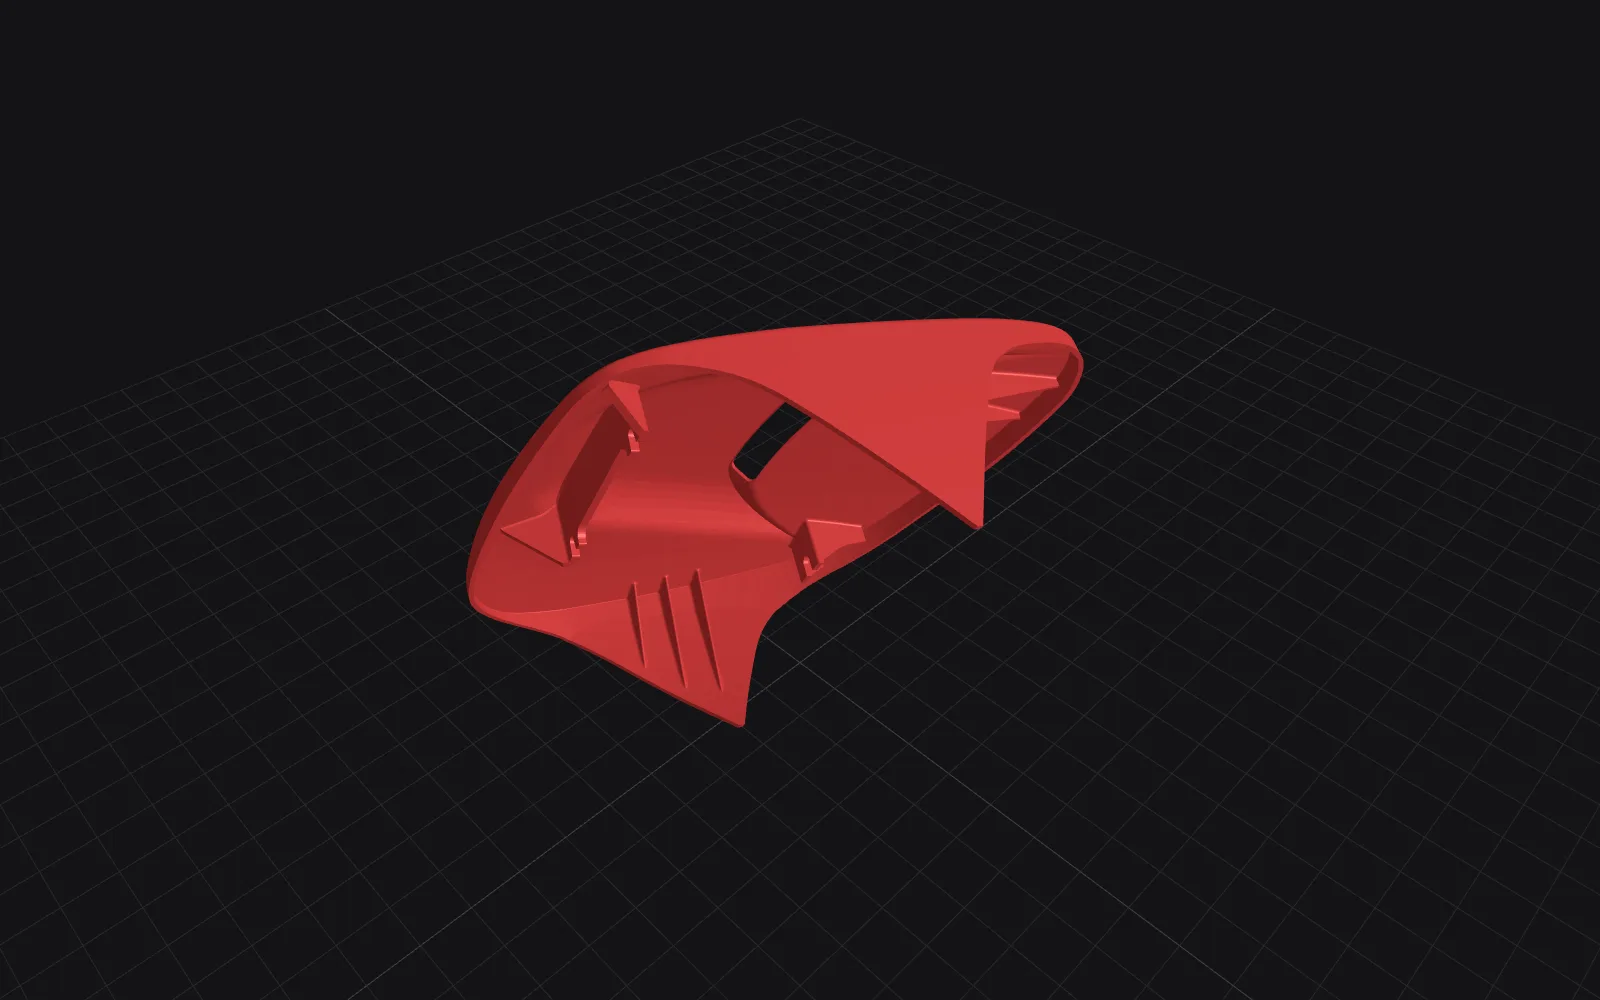
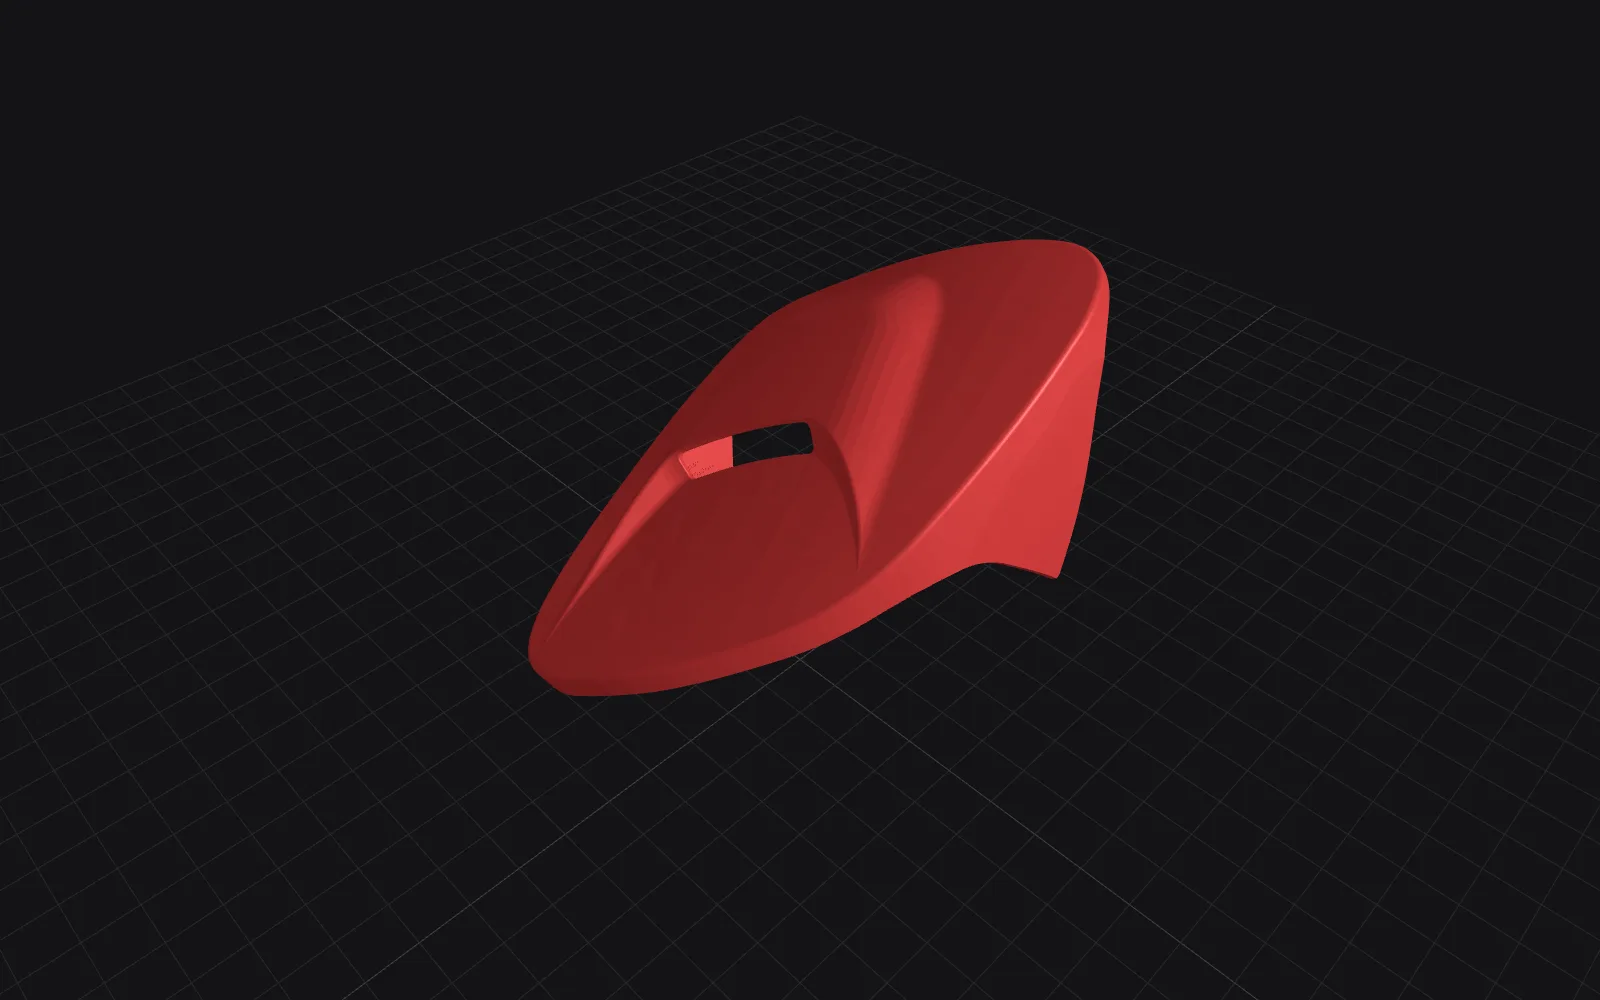
Add a Turn (yaw) control — the headlight's problem was balance, not its face
Turned onto its side was worse, so I measured instead of guessing. The tool
is scripts/measure-preview.mjs: it reads a rendered preview and reports the
model's silhouette — bounding box, aspect, and how wide its base is relative
to its widest point. A narrow base is what an eye reads as "balancing" or
"on its edge"; a broad one as settled.

It reproduces your three verdicts exactly, which is what makes it worth
trusting:

  fix   (−90° X)  576×457  base 51%   you: "upside down"
  flip  (+90° X)  519×300  base  7%   you: "not entirely level"
  side  (+90° Z)  616×408  base 16%   you: "on its side"
  as-is (0°)      573×510  base 55%   untested

So two separate things were wrong and I had been treating them as one.
`orientation` picks which face is down — and by your reading of "upside
down", the right face is flip's, not fix's. But flip's yaw put all the bulk
over a point: 7% base, which is exactly the "not entirely level" you saw.

Yaw alone fixes that. Same face, four turns:

  0°   base  7%   (what you saw)
  90°  base 48%   ← chosen
  180° base 37%
  270° base 23%

So the headlight now ships `orientation: flip, yaw: 90` — the face you said
was correct, turned until it rests on 48% of its width rather than 7%. That
is as broad as fix's 51%, the one you never complained about for levelness.

`yaw` is a number field, because the useful value is not always a multiple
of 90 for an irregular part. It rotates about the axis already pointing up,
[…]

Changed region(s): [[0.2812, 0.217, 0.7188, 0.744]]

diff --git a/src/content.config.ts b/src/content.config.ts
@@ -61,6 +61,12 @@ const models = defineCollection({
     // faces either (the strut brace scores 44% either way up), so the field
     // stays explicit rather than guessed.
     orientation: z.enum(['fix', 'flip', 'side', 'asis']).default('fix'),
+    // Turn the model about the axis that is already pointing up, in degrees.
+    // Orientation chooses which face is down; yaw chooses how the part's bulk
+    // sits over that face, which is the difference between resting and
+    // balancing. For the vented headlight cover, the same face scores a 7%
+    // wide base at 0° and 48% at 90° — so the choice is worth having.
+    yaw: z.coerce.number().min(0).max(360).default(0),
     preview: z.string().default(''),
     category: z.string().default(''),
     downloads: z.number().default(0),

diff --git a/src/content/models/fd3s-headlight-covers.md b/src/content/models/fd3s-headlight-covers.md
@@ -6,7 +6,8 @@ description: >-
   sealed panel with the vent cut through, so air can pass the headlight
   housing. Free to download and print.
 file: /models/fd3s-headlight-cover-left.stl
-orientation: side
+orientation: flip
+yaw: 90
 preview: /images/models/fd3s-headlight-covers.webp
 category: exterior
 downloads: 0
